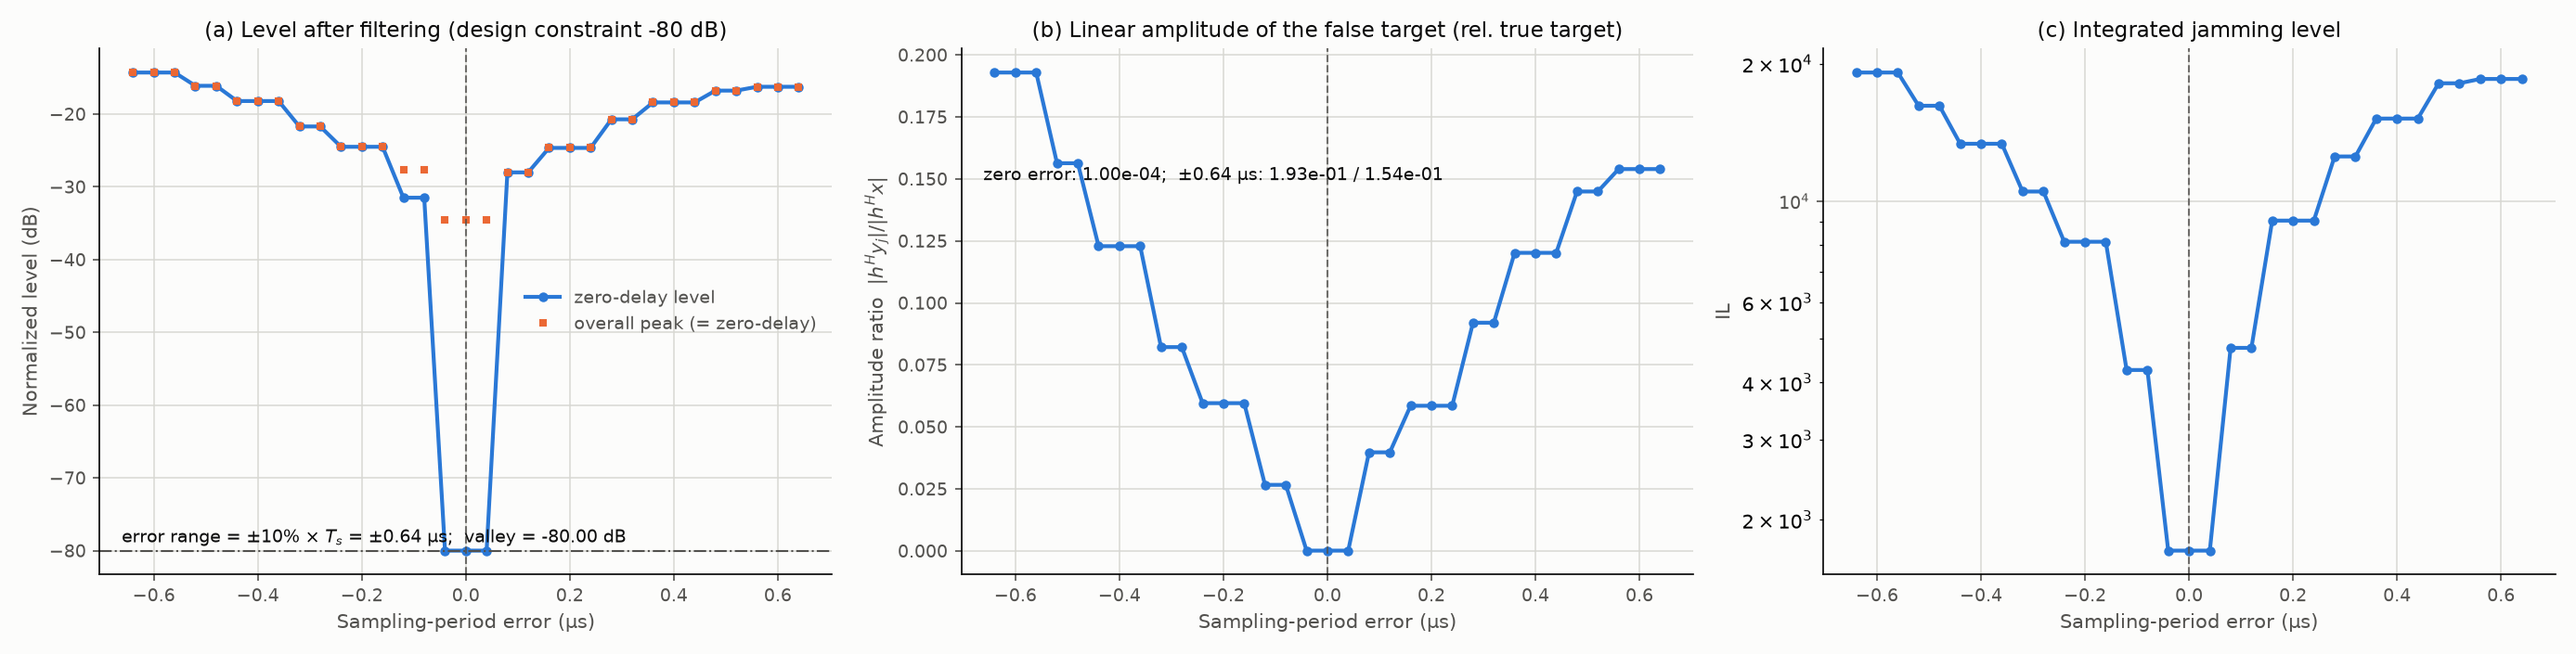
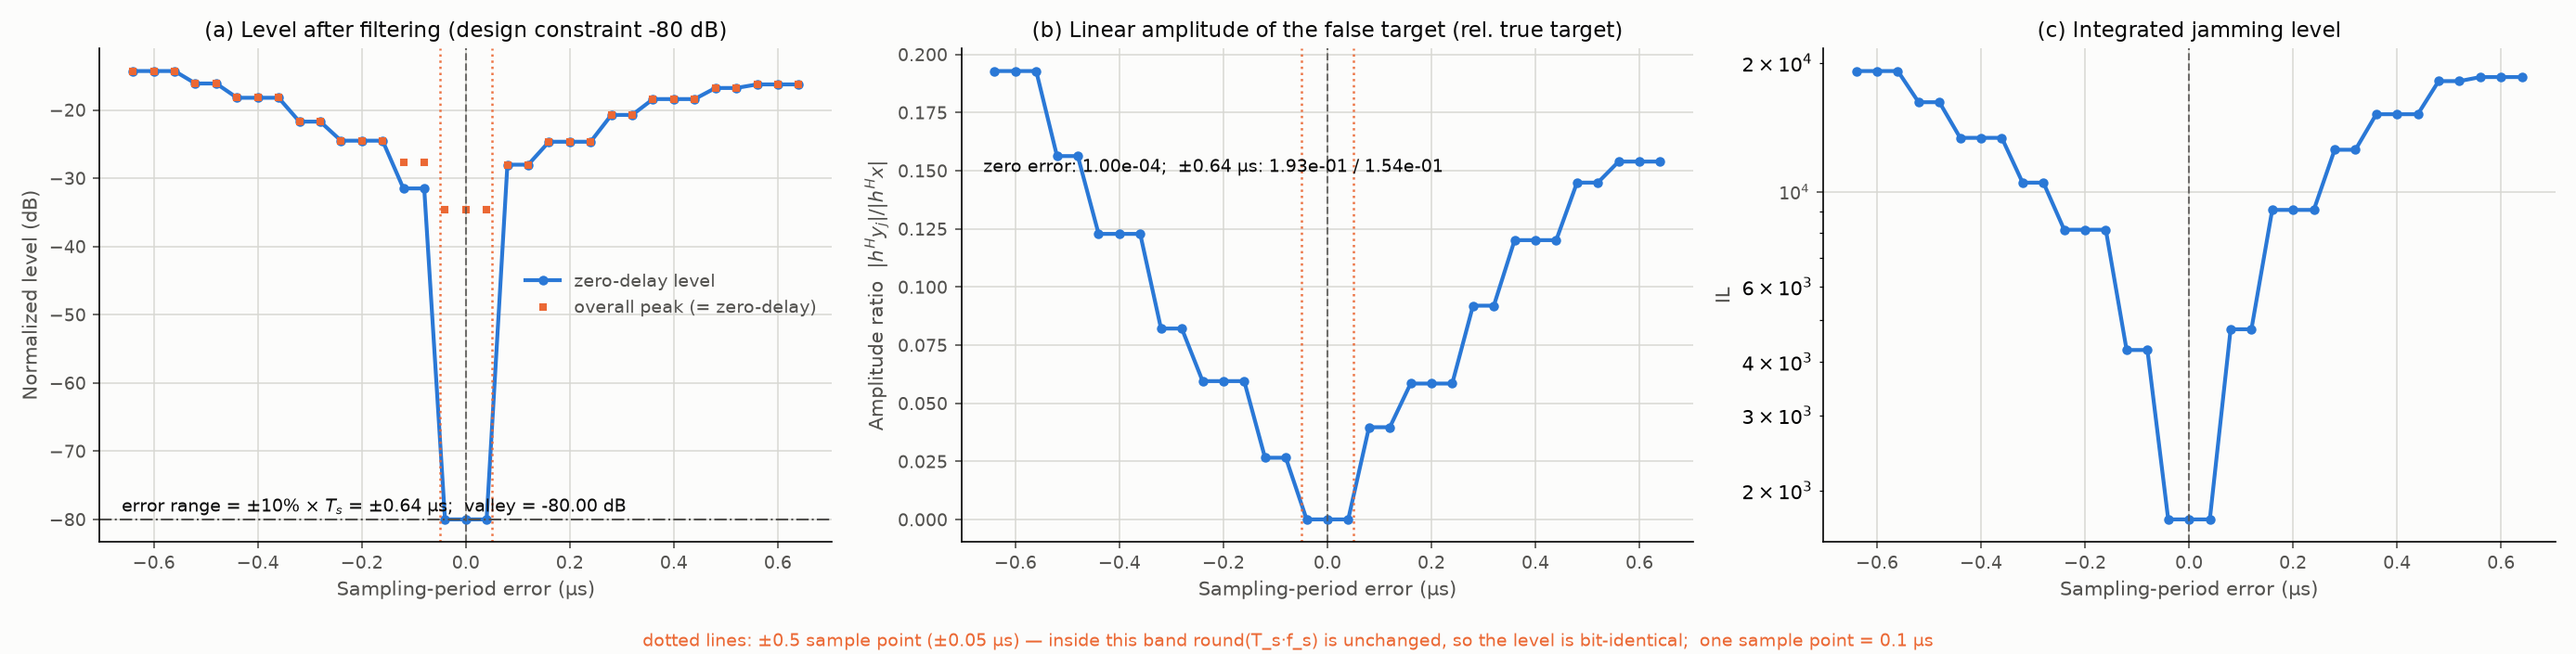
采样周期扫描图标注平台边界（±0.5 采样点）与量化说明
- (a)(b) 画 ±0.5 采样点的虚线边界；长说明移到图下 caption
- 澄清：平台 = round(T_s*f_s) 整数不变区（±半个采样点），
  一个采样点（0.1 μs）已在平台之外（电平 -28.02 dB）

diff --git a/参数搜索/scripts/run_ts_sweep.py b/参数搜索/scripts/run_ts_sweep.py
@@ -130,6 +130,9 @@ def main() -> None:
     ax.set_ylabel("Normalized level (dB)")
     ax.set_title(f"(a) Level after filtering (design constraint {args.depth:g} dB)",
                  fontsize=11)
+    for side in (-1, 1):
+        ax.axvline(side * baseline.SAMPLE_US / 2, color=SERIES_2, linewidth=1.2,
+                   linestyle=":", alpha=0.9)
     ax.annotate(f"error range = ±{args.err_percent:g}% × $T_s$ = ±{span:g} μs;  "
                 f"valley = {rows[i0]['zero_delay_db']:.2f} dB",
                 xy=(0.03, 0.06), xycoords="axes fraction", fontsize=9,
@@ -145,6 +148,9 @@ def main() -> None:
     ax.set_ylabel("Amplitude ratio  $|h^H y_j| / |h^H x|$")
     ax.set_title("(b) Linear amplitude of the false target (rel. true target)",
                  fontsize=11)
+    for side in (-1, 1):
+        ax.axvline(side * baseline.SAMPLE_US / 2, color=SERIES_2, linewidth=1.2,
+                   linestyle=":", alpha=0.9)
     ax.annotate(f"zero error: {rows[i0]['amp_ratio']:.2e};  "
                 f"±{span:g} μs: {rows[0]['amp_ratio']:.2e} / {rows[-1]['amp_ratio']:.2e}",
                 xy=(0.03, 0.75), xycoords="axes fraction", fontsize=9,
@@ -160,7 +166,12 @@ def main() -> None:
     ax.set_title("(c) Integrated jamming level", fontsize=11)
     style(ax)
 
-    fig.tight_layout()
+    fig.tight_layout(rect=(0, 0.05, 1, 1))
+    fig.text(0.5, 0.012,
+             "dotted lines: ±0.5 sample point (±0.05 μs) — inside this band "
+             "round(T_s·f_s) is unchanged, so the level is bit-identical;  "
+             "one sample point = 0.1 μs",
+             ha="center", fontsize=9, color=SERIES_2)
     out = OUTDIR / f"采样周期误差扫描_约束{abs(args.depth):g}dB.png"
     fig.savefig(out, dpi=150, facecolor=SURFACE)
     plt.close(fig)
